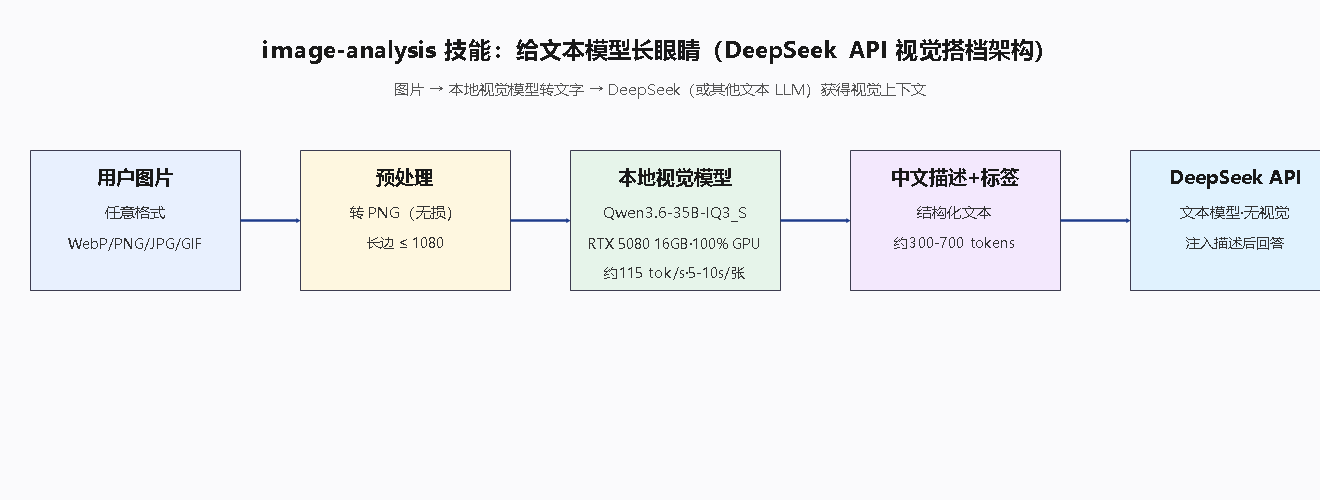
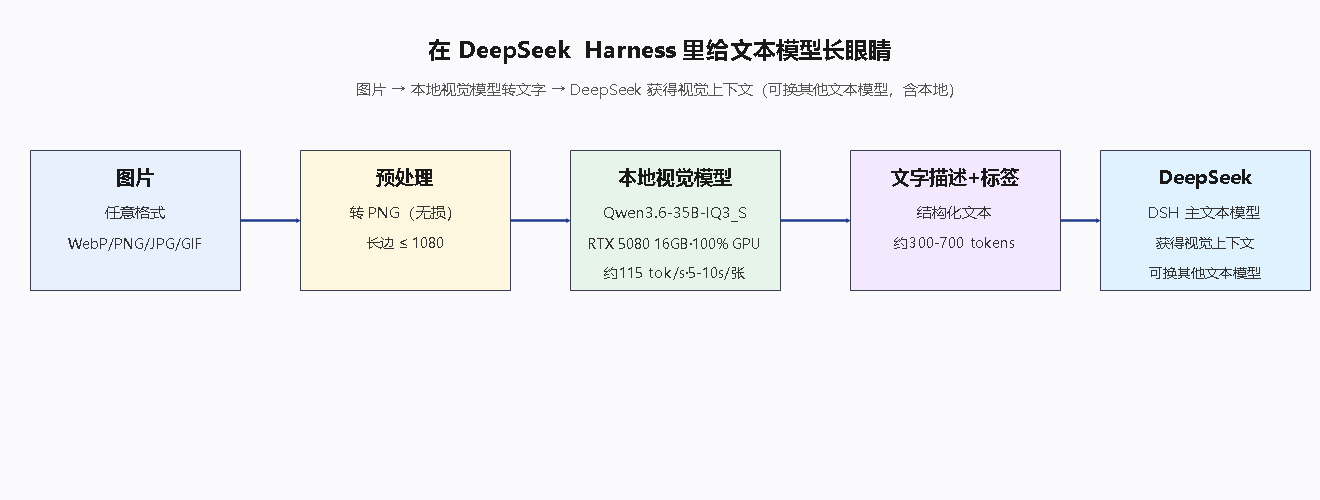
docs: bilingual README (cn/en) centered on DSH theme; DSH-centric architecture diagram

diff --git a/skills/image-analysis/README-en.md b/skills/image-analysis/README-en.md
@@ -1,0 +1,83 @@
+# image-analysis-skill
+
+## Theme: Give Text Models Eyes in DeepSeek Harness
+
+[DeepSeek Harness (DSH)](https://github.com/deepseek-ai/deepseek-harness) is the open-source agent harness by [DeepSeek AI](https://deepseek.com) — everything is a plugin. The text model inside DSH — **DeepSeek** by default — can only read text. **It cannot see images.** That is its biggest capability gap.
+
+**This skill is a DSH Skill that fills exactly that gap**: it gives DeepSeek inside DSH a pair of eyes.
+
+> **Image → vision model converts it to text → DeepSeek "sees"**
+
+![architecture](docs/architecture.png)
+
+With this skill installed, whenever the DSH agent encounters an image (screenshot, photo, illustration, character sheet, AI-generated image...), it automatically "opens its eyes": a local vision model translates the image into **structured text description + retrieval tags**, which are injected into DeepSeek's context — DeepSeek can then understand, reason, and answer based on the image content.
+
+> The text model in DSH is not limited to DeepSeek — it can be any other text model (including locally deployed ones). The "eyes" are universal: whoever uses them gains vision.
+
+## Install in DeepSeek Harness
+
+Put the `image-analysis` folder into DSH's skill directory:
+
+```text
+~/.dsh/skills/image-analysis/
+```
+
+Restart the DSH session and the skill is picked up and enabled automatically.
+
+## Use in DeepSeek Harness
+
+**Automatic mode (recommended)**: the DSH agent "opens its eyes" automatically in these tasks — no manual steps:
+
+- Asset entry (turn images into text description + tags for archiving)
+- Prompt management (view images to write prompts / manage image assets)
+- Screenshot understanding (analyze images you paste into the DSH conversation)
+- Image comparison (let DeepSeek compare the content of two images)
+
+**Manual mode**: run the script in your DSH environment and paste the output into the conversation:
+
+```powershell
+# Local "eyes" (Ollama + vision model, default llava:13b)
+.\image-analysis.ps1 -ImagePath "D:\pics\photo.webp"
+
+# Cloud "eyes" (OpenAI-compatible vision API, e.g. gpt-4o / qwen-vl)
+$env:VISION_API_KEY = "sk-..."
+.\image-analysis.ps1 -ImagePath "D:\pics\photo.png" -Provider openai -Model "gpt-4o-mini"
+```
+
+Example output (injected directly into DeepSeek's context):
+
+```text
+This is a character design sheet... (structured description)
+Tags: HARUMIN, character-sheet, orange-striped top, silver band-aid, short-haired girl, voice description
+```
+
+**The script preprocesses automatically**: converts any format (WebP, etc.) to PNG and downscales the long edge to 1080px — feeding a huge image raw makes the model slow and the output blurry (token explosion); after downscaling, the "eyes" read clearer, faster, and cheaper.
+
+## Configuration (effective in the DSH environment)
+
+| Parameter | Default | Description |
+|---|---|---|
+| `-Provider` | `local` | `local` (Ollama) / `openai` (compatible API) |
+| `-Model` | `llava:13b` | Vision model (the "eyes") |
+| `-Endpoint` | `http://127.0.0.1:11434` | Service endpoint |
+| `-ApiKey` | (empty) | Required only for `openai` (or `$env:VISION_API_KEY`) |
+| `-MaxEdge` | `1080` | Long-edge downscale limit (px) |
+
+Environment variables (`VISION_MODEL` / `VISION_ENDPOINT` / `VISION_API_KEY` / `VISION_PROVIDER`) can be set once in the DSH launch environment.
+
+## How good are these "eyes"? (DSH local vision partner · RTX 5080 16GB, measured)
+
+- ~**5-10s** per image, producing **300-700 tokens** of description;
+- Local vision front-end `Qwen3.6-35B-IQ3_S`: **100% GPU, 118 tok/s** (the only full-speed option);
+- Preprocessing gain: large image tokens drop from **3647 to 713** (-80%), 24x faster, no perceptible quality loss.
+
+![benchmark](docs/benchmark.png)
+
+## Prerequisites (either)
+
+1. **Local vision model**: install [Ollama](https://ollama.com) and `ollama pull llava:13b` (or any vision model);
+2. **OpenAI-compatible vision API**: any provider + API key.
+
+---
+
+Implementation details, full parameters and FAQ: see `SKILL.md` and `image-analysis.ps1`.

diff --git a/skills/image-analysis/README-cn.md b/skills/image-analysis/README-cn.md
@@ -1,0 +1,83 @@
+# image-analysis-skill
+
+## 主题：给 DeepSeek Harness 里的文本模型长眼睛
+
+[DeepSeek Harness（DSH）](https://github.com/deepseek-ai/deepseek-harness) 是 [DeepSeek AI](https://deepseek.com) 开源的智能体框架（一切皆插件）。DSH 里的文本模型——默认是 **DeepSeek**——只能读文字，**看不到图片**，这是它最大的能力缺口。
+
+**本技能就是 DSH 的一个技能（Skill），专门补上这个缺口**：给 DSH 里的 DeepSeek 装上一双"眼睛"。
+
+> **图片 → 视觉模型转成文字 → DeepSeek"看见"了**
+
+![架构图](docs/architecture.png)
+
+装上本技能后，DSH 代理遇到图片（截图、照片、插画、角色设定图、AI 生成图……）会自动"睁眼"：本地视觉模型把图片翻译成**结构化文字描述 + 检索标签**，注入 DeepSeek 的上下文，DeepSeek 就能基于图片内容理解、推理、回答。
+
+> DSH 里的文本模型不限于 DeepSeek——可以换成其他文本模型（包括本地部署的）。"眼睛"是通用的，谁用它，谁就获得视觉能力。
+
+## 在 DeepSeek Harness 里安装
+
+把 `image-analysis` 文件夹放进 DSH 的技能目录：
+
+```text
+~/.dsh/skills/image-analysis/
+```
+
+重启 DSH 会话，技能即被代理识别并自动启用。
+
+## 在 DeepSeek Harness 里使用
+
+**自动模式（推荐）**：DSH 代理在以下任务中自动"睁眼"，无需手动操作——
+
+- 资产入库（把图片转成文字描述 + 标签存档）
+- 提示词管理（看图写提示词 / 管理图片素材）
+- 截图理解（DSH 对话中分析你贴的图）
+- 图片对比（让 DeepSeek 对比两张图的内容）
+
+**手动模式**：在 DSH 环境里直接跑脚本，把输出粘进对话：
+
+```powershell
+# 本地"眼睛"（Ollama + 视觉模型，默认 llava:13b）
+.\image-analysis.ps1 -ImagePath "D:\pics\photo.webp"
+
+# 云端"眼睛"（OpenAI 兼容视觉 API，如 gpt-4o / qwen-vl）
+$env:VISION_API_KEY = "sk-..."
+.\image-analysis.ps1 -ImagePath "D:\pics\photo.png" -Provider openai -Model "gpt-4o-mini"
+```
+
+输出示例（直接注入 DeepSeek 上下文）：
+
+```text
+这是一张角色设定图……（结构化描述）
+检索标签：HARUMIN, 角色设定图, 橙黄条纹泳装, 银色创可贴, 短发女性角色, 声线描述
+```
+
+**脚本自动预处理**：任意格式（WebP 等）转 PNG、长边缩放到 1080——大图直接喂会又慢又糊（token 爆炸），缩放后"眼睛"读得更清、更快、更省。
+
+## 配置（在 DSH 环境里生效）
+
+| 参数 | 默认 | 说明 |
+|---|---|---|
+| `-Provider` | `local` | `local`（Ollama）/ `openai`（兼容 API） |
+| `-Model` | `llava:13b` | 视觉模型（这双"眼睛"） |
+| `-Endpoint` | `http://127.0.0.1:11434` | 服务地址 |
+| `-ApiKey` | 空 | 仅 `openai` 需要（或用 `$env:VISION_API_KEY`） |
+| `-MaxEdge` | `1080` | 图片长边缩放上限（px） |
+
+环境变量（`VISION_MODEL` / `VISION_ENDPOINT` / `VISION_API_KEY` / `VISION_PROVIDER`）可在 DSH 启动环境中统一配置。
+
+## 这双"眼睛"好不好用（DSH 本地视觉搭档 · 5080 16GB 实测）
+
+- 读一张图 **5~10 秒**，产出 **300~700 tokens** 文字描述；
+- 本地视觉前端 `Qwen3.6-35B-IQ3_S`：**100% GPU、118 tok/s**（唯一满速选项）；
+- 预处理收益：大图 token 从 **3647 降到 713**（降 80%），快 24 倍，质量无损失。
+
+![性能对比](docs/benchmark.png)
+
+## 前提（二选一）
+
+1. **本地视觉模型**：安装 [Ollama](https://ollama.com) 并 `ollama pull llava:13b`（或任意 vision 模型）；
+2. **OpenAI 兼容视觉 API**：任意服务商 + API Key。
+
+---
+
+实现细节、全部参数与常见问题见 `SKILL.md` 与 `image-analysis.ps1`。

diff --git a/skills/image-analysis/README.md b/skills/image-analysis/README.md
@@ -1,68 +1,8 @@
 # image-analysis-skill
 
-## 主题：给文本模型长眼睛
+**DeepSeek Harness（DSH）技能：给文本模型长眼睛。**
 
-文本模型（DeepSeek、各种 Agent）只能读文字，**看不到图片**——这是它们最大的能力缺口。
+在 DeepSeek Harness 里给 DeepSeek（或任意文本模型）装上一双"眼睛"——图片 → 视觉模型转文字 → 文本模型"看见"。
 
-这个技能就是给它们**装上一双眼睛**：
-
-> **图片 → 视觉模型转成文字 → 文本模型"看见"了**
-
-![架构图](docs/architecture.png)
-
-你只需要有一个能看图的模型（本地 Ollama 视觉模型，或任意 OpenAI 兼容视觉 API），这双"眼睛"就能把任意图片——截图、照片、插画、角色设定图、AI 生成图——翻译成**结构化文字描述 + 检索标签**，喂给任何文本模型去理解、推理、回答。
-
-## 怎么用：一条命令，图片变文字
-
-```powershell
-# 本地"眼睛"（Ollama + 视觉模型，默认 llava:13b）
-.\image-analysis.ps1 -ImagePath "D:\pics\photo.webp"
-
-# 云端"眼睛"（OpenAI 兼容视觉 API，如 gpt-4o / qwen-vl）
-$env:VISION_API_KEY = "sk-..."
-.\image-analysis.ps1 -ImagePath "D:\pics\photo.png" -Provider openai -Model "gpt-4o-mini"
-```
-
-输出示例：
-
-```text
-这是一张角色设定图……（结构化描述）
-检索标签：HARUMIN, 角色设定图, 橙黄条纹泳装, 银色创可贴, 短发女性角色, 声线描述
-```
-
-把输出粘进任何文本模型的对话，它就能基于图片内容继续推理了。
-
-**脚本自动预处理**：任意格式（WebP 等）转 PNG、长边缩放到 1080——大图直接喂模型会又慢又糊（token 爆炸），缩放后"眼睛"读得更清、更快、更省。
-
-## 配置（精简）
-
-| 参数 | 默认 | 说明 |
-|---|---|---|
-| `-Provider` | `local` | `local`（Ollama）/ `openai`（兼容 API） |
-| `-Model` | `llava:13b` | 视觉模型（这双"眼睛"） |
-| `-Endpoint` | `http://127.0.0.1:11434` | 服务地址 |
-| `-ApiKey` | 空 | 仅 `openai` 需要（或用 `$env:VISION_API_KEY`） |
-| `-MaxEdge` | `1080` | 图片长边缩放上限（px） |
-
-## 这双"眼睛"好不好用（5080 16GB 实测）
-
-- 读一张图 **5~10 秒**，产出 **300~700 tokens** 文字描述；
-- 本地视觉前端 `Qwen3.6-35B-IQ3_S`：**100% GPU、118 tok/s**（唯一满速选项）；
-- 预处理收益：大图 token 从 **3647 降到 713**（降 80%），快 24 倍，质量无损失。
-
-![性能对比](docs/benchmark.png)
-
-## 适用于
-
-- **DSH（DeepSeek Harness）**：DeepSeek AI 开源的 agent 框架（[GitHub](https://github.com/deepseek-ai/deepseek-harness)），本身是纯文本模型；把本技能放进 `~/.dsh/skills/`，代理遇到图片自动"睁眼"。
-- **Claude Code / 任意 Agent**：放进对应技能目录即可。
-- **任何文本 LLM API**：把输出描述直接粘进对话。
-
-## 前提（二选一）
-
-1. **本地视觉模型**：安装 [Ollama](https://ollama.com) 并 `ollama pull llava:13b`（或任意 vision 模型）；
-2. **OpenAI 兼容视觉 API**：任意服务商 + API Key。
-
----
-
-实现细节、全部参数与常见问题见 `SKILL.md` 与 `image-analysis.ps1`。
+- [中文说明书](README-cn.md)
+- [English README](README-en.md)

diff --git a/skills/image-analysis/SKILL.md b/skills/image-analysis/SKILL.md
@@ -1,11 +1,11 @@
 ---
 name: image-analysis
-description: 图片分析：给文本模型长眼睛。Use when analyzing an image file or a folder of images (asset entry, prompt management, screenshot understanding, image comparison, OCR-in-image): first preprocess (convert any non-PNG/JPEG format such as WebP to PNG; downscale long edge to at most 1080px), then call a vision model — a local Ollama model (think off) OR an OpenAI-compatible vision API — and return a structured Chinese description plus retrieval tags. Prerequisite: the user must have either a local vision model or a vision API key.
+description: 给 DeepSeek Harness（DSH）里的文本模型长眼睛。Use when DSH needs to analyze an image file or a folder of images (asset entry, prompt management, screenshot understanding, image comparison, OCR-in-image): first preprocess (convert any non-PNG/JPEG format such as WebP to PNG; downscale long edge to at most 1080px), then call a vision model — a local Ollama model (think off) OR an OpenAI-compatible vision API — and return a structured Chinese description plus retrieval tags that get injected into the text model's context. Prerequisite: the user must have either a local vision model or a vision API key.
 ---
 
-# 图片分析（给文本模型长眼睛）
+# 图片分析（在 DSH 里给文本模型长眼睛）
 
-把任意图片变成**结构化文本描述 + 检索标签**，让纯文本 LLM 代理（DSH、Claude Code、自定义 Agent 等）"看见"图片。
+把任意图片变成**结构化文本描述 + 检索标签**，让 DSH（DeepSeek Harness）里的文本模型（DeepSeek 等，也支持换成其他文本模型）"看见"图片、基于图片内容推理。
 
 > **前提条件（二选一）**：用户须具备其一——① **本地视觉模型**（Ollama 已装并运行 + 一个 vision 能力的模型）；或 ② **OpenAI 兼容的视觉 API**（任意服务商，需 API Key）。两种通道脚本都支持，`-Provider local`（默认）或 `-Provider openai`。
 
